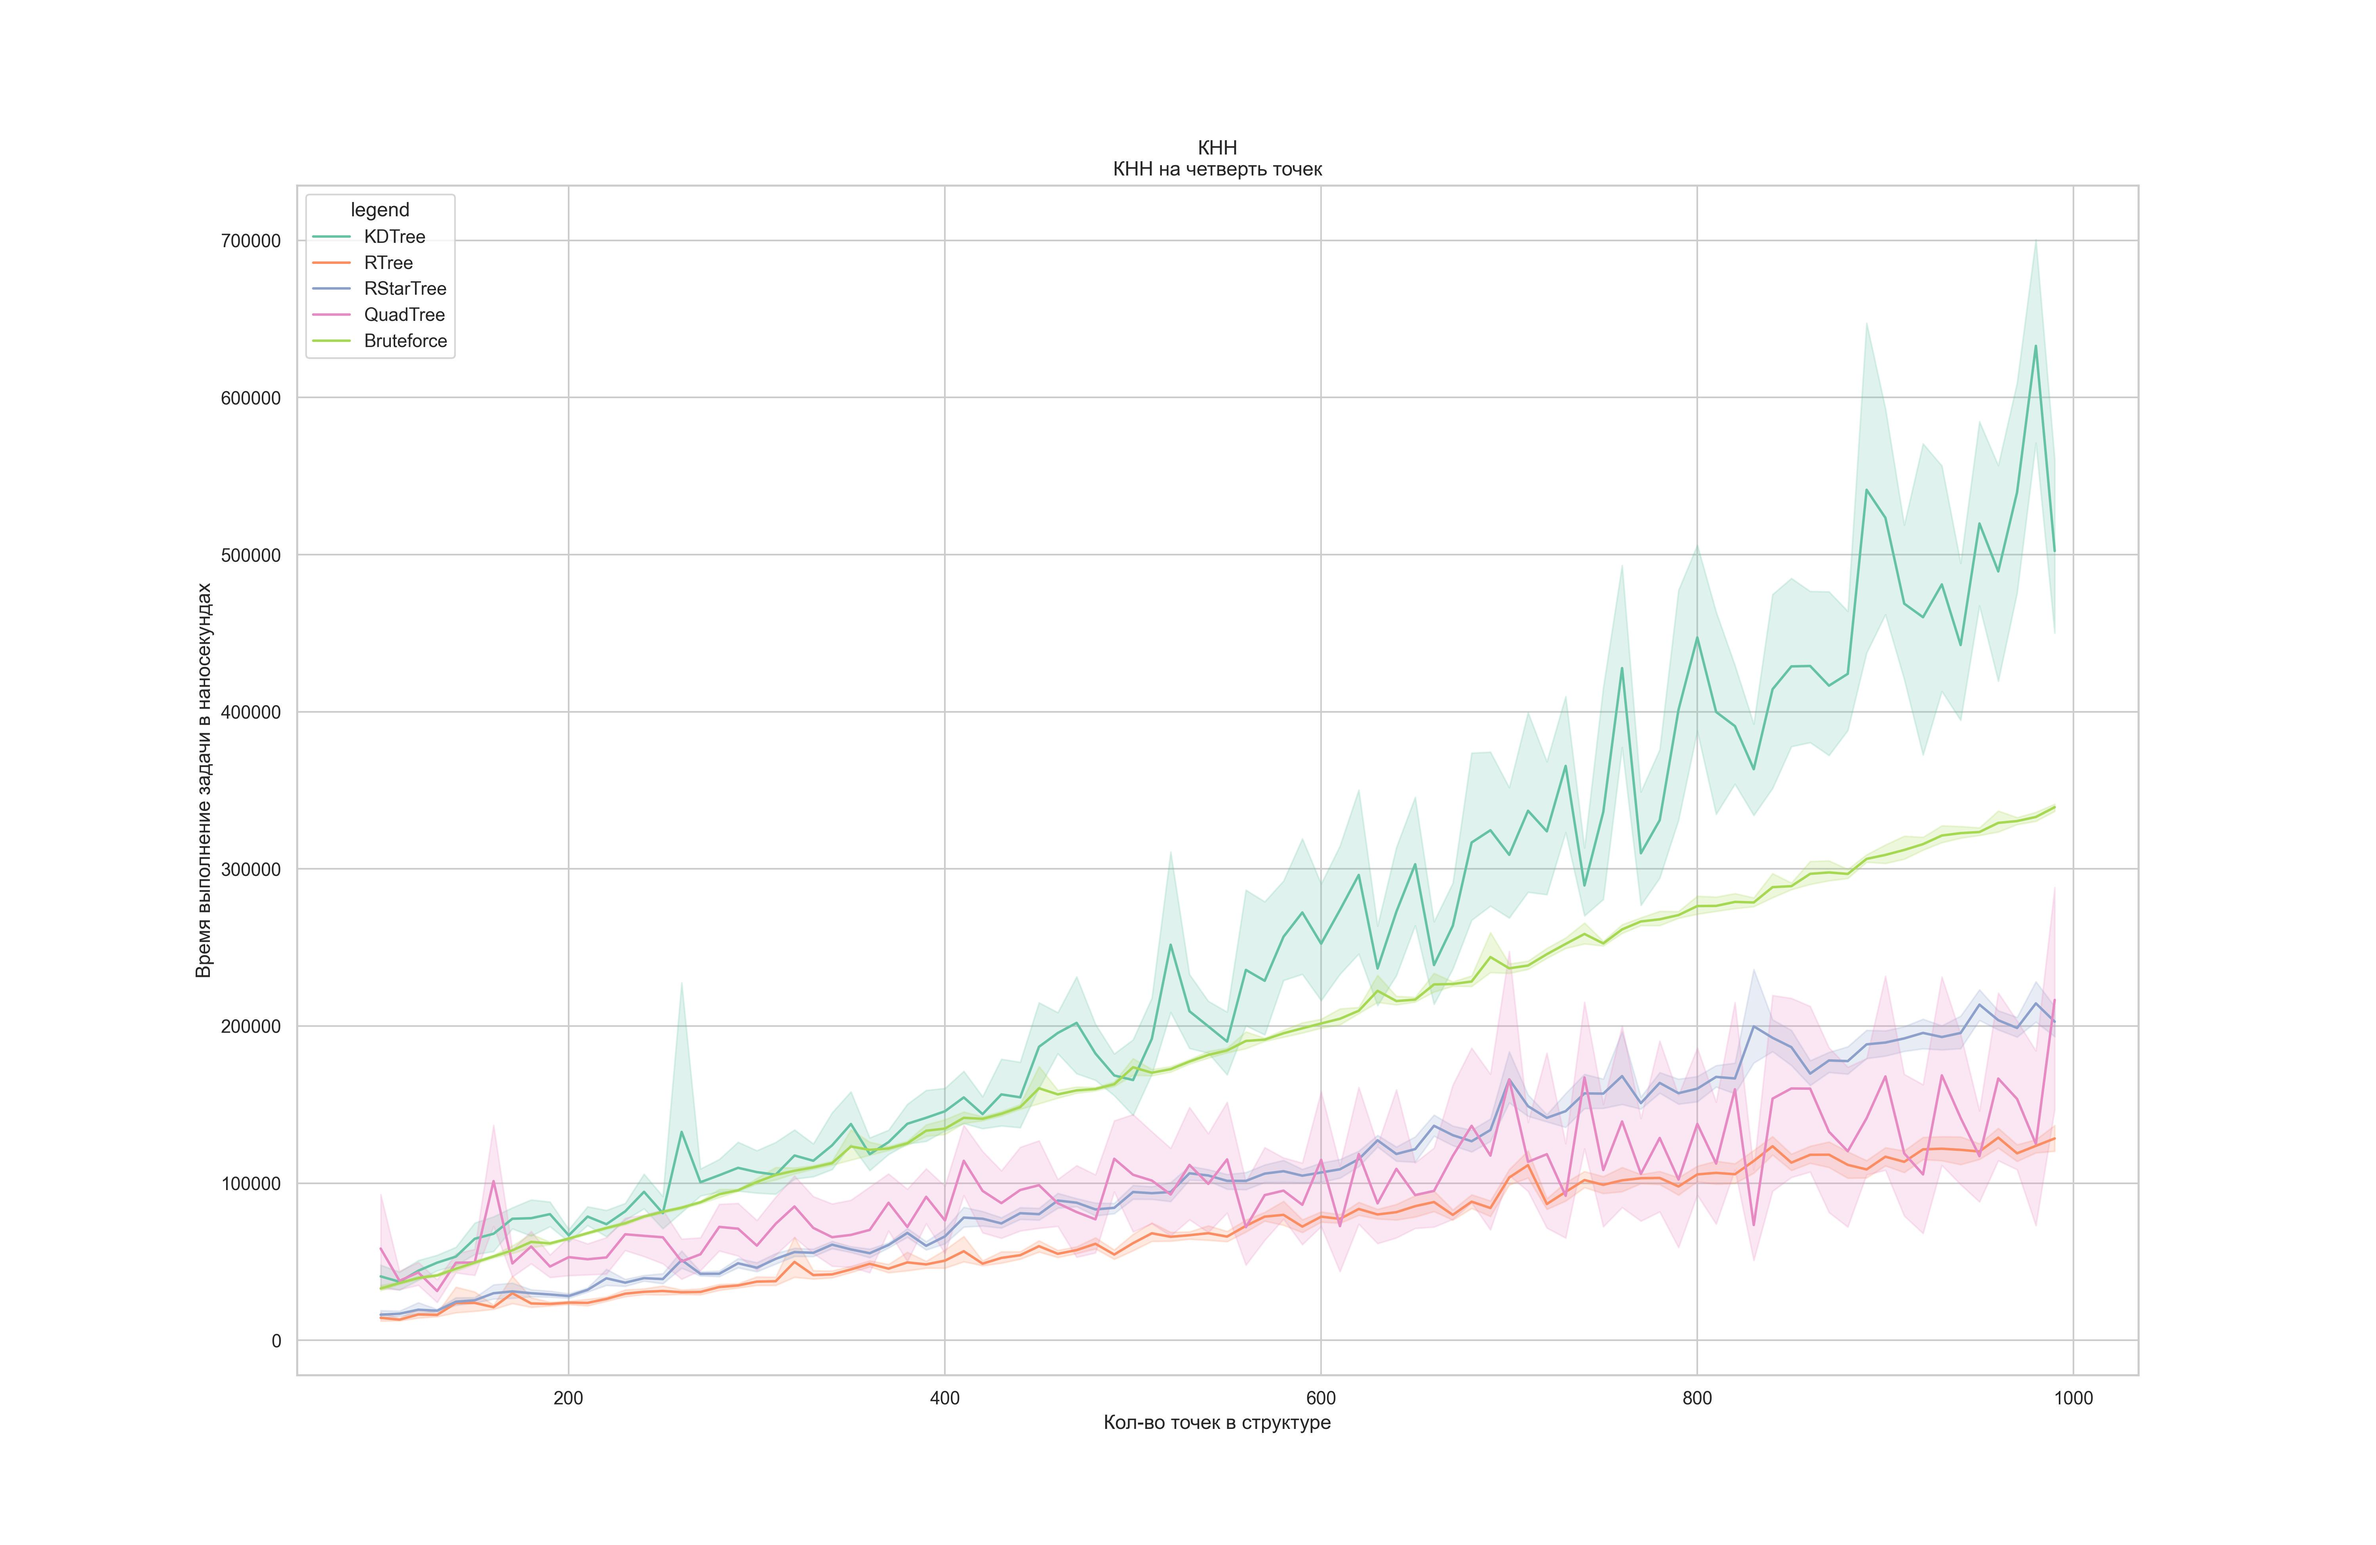
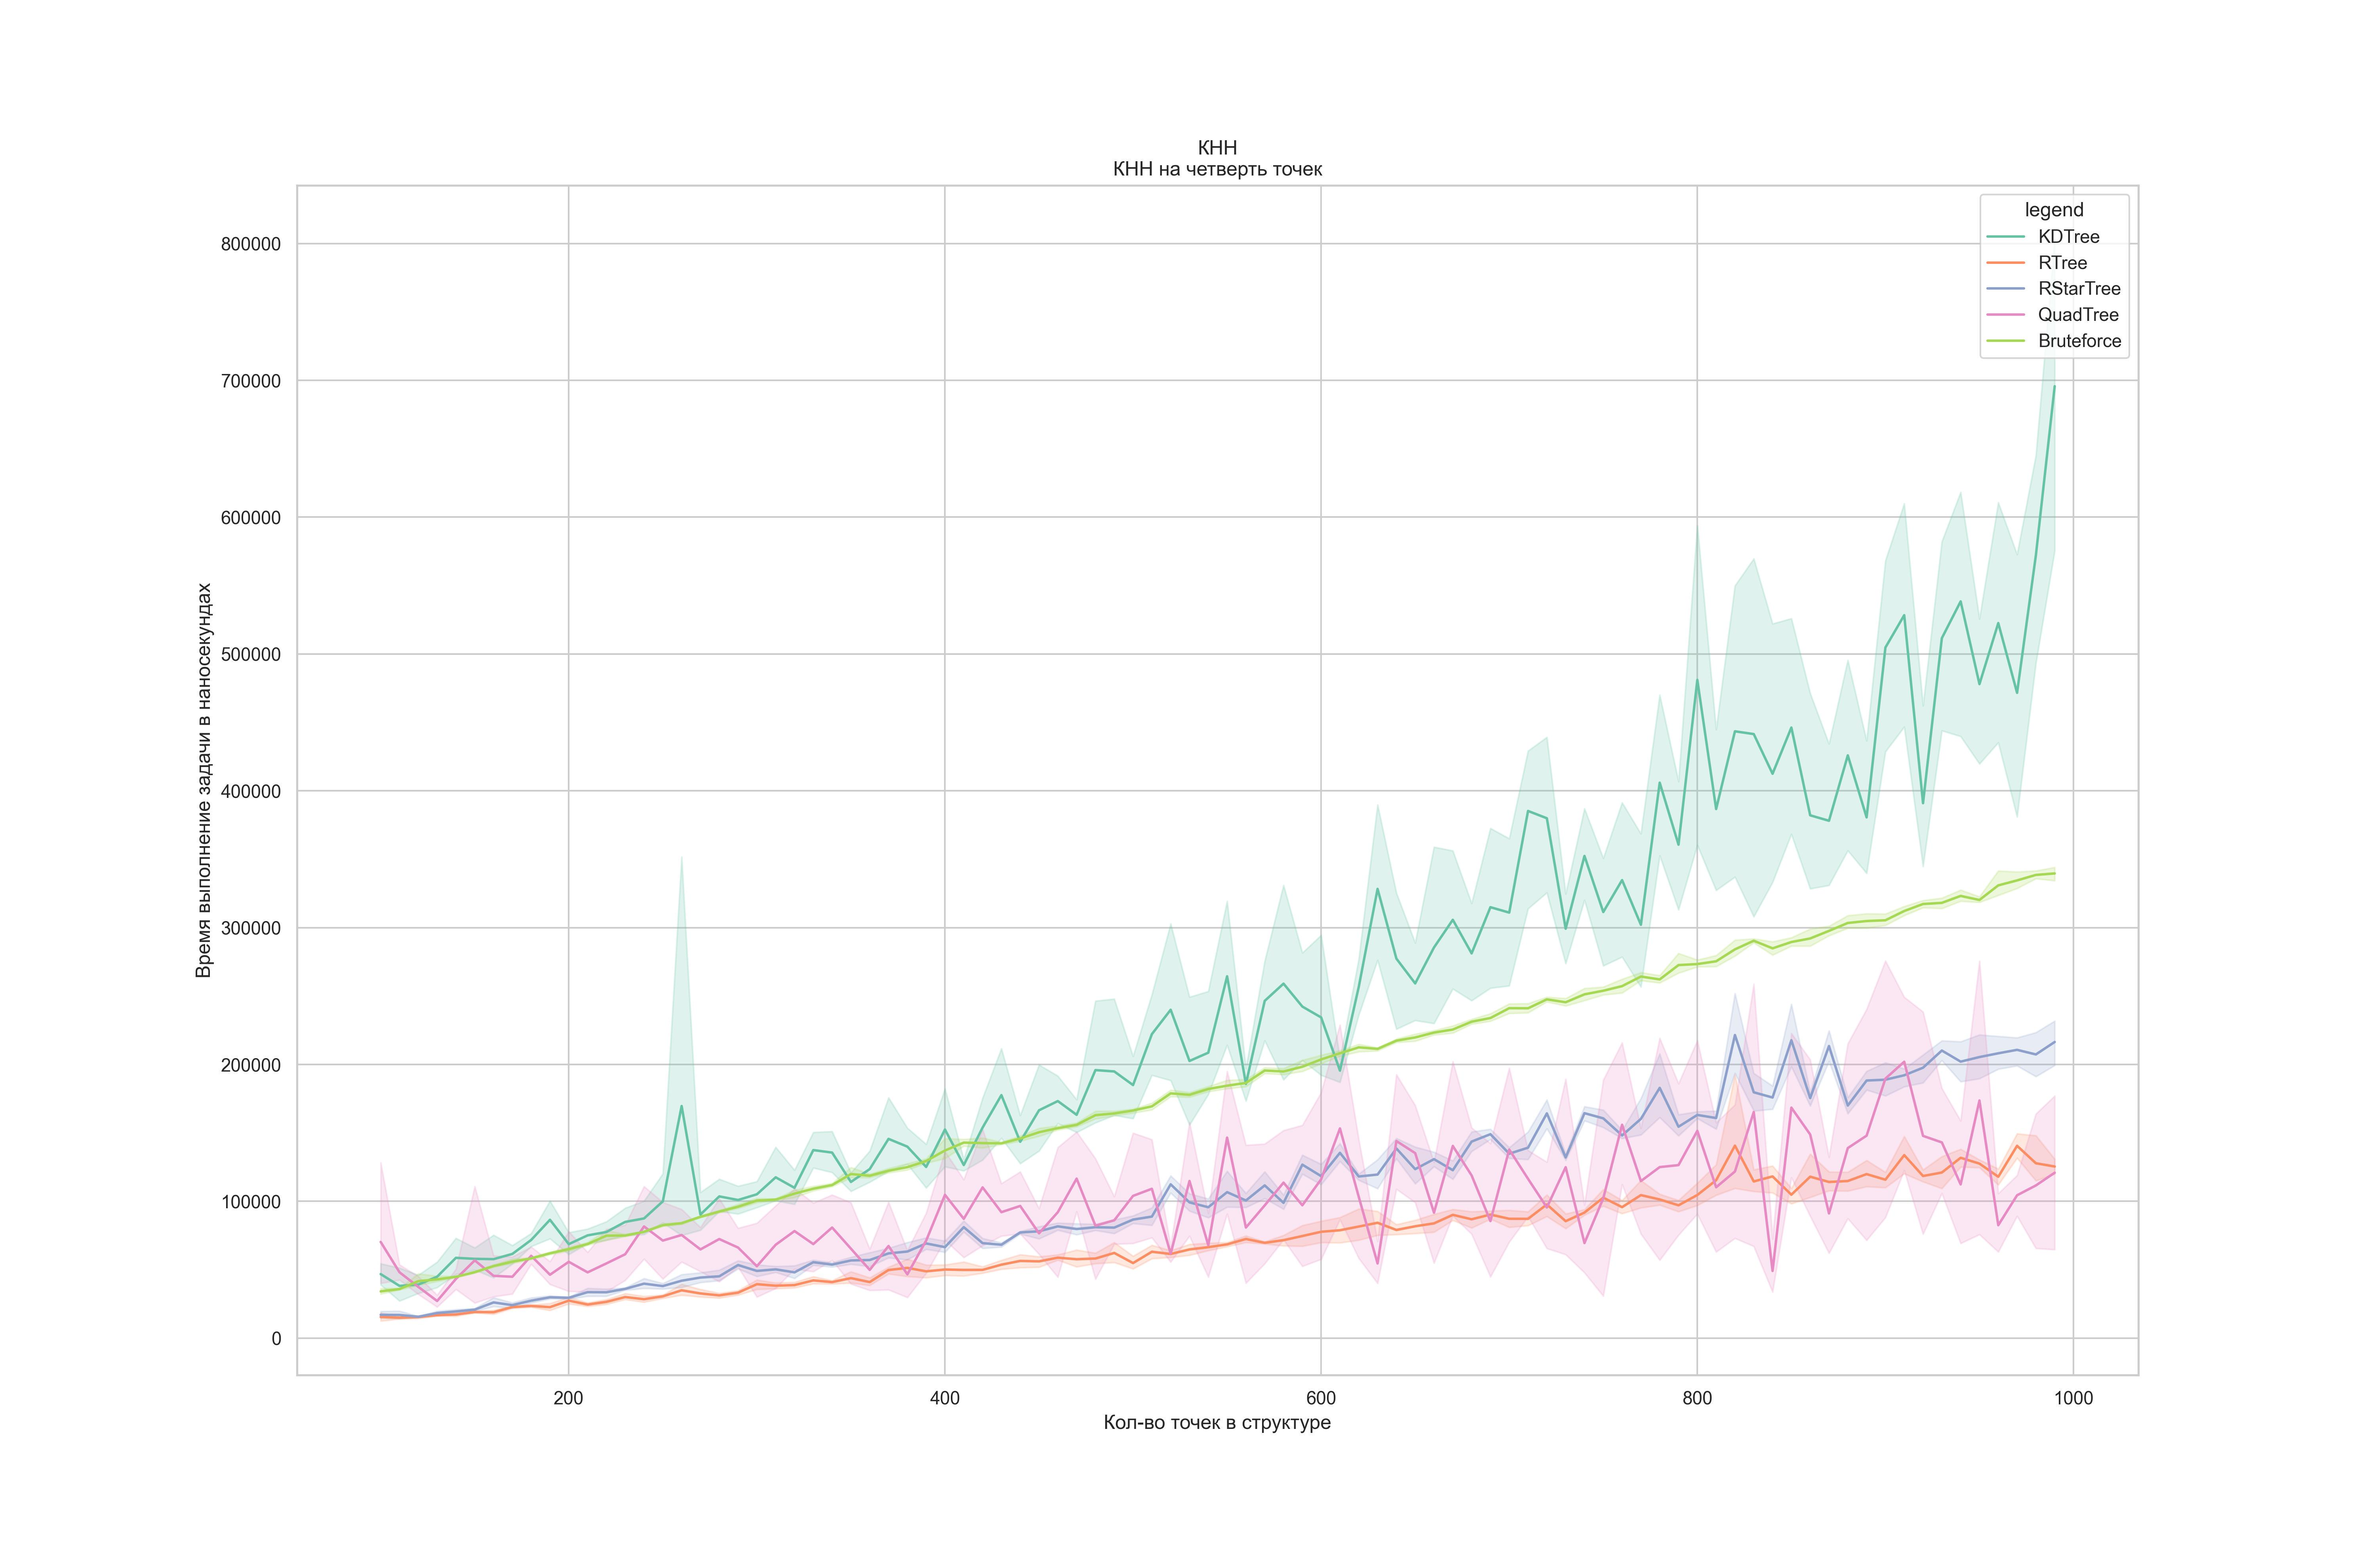
auto: autocommit

diff --git a/core/cases/run.go b/core/cases/run.go
@@ -6,7 +6,9 @@ import (
 	"geoindexing_comparison/core/cases/tasks"
 	"geoindexing_comparison/core/generator"
 	"geoindexing_comparison/core/geo"
+	"geoindexing_comparison/core/utils"
 	"github.com/rs/zerolog/log"
+	"github.com/schollz/progressbar/v3"
 	"runtime"
 	"time"
 )
@@ -24,7 +26,7 @@ func runCol(
 	amount int,
 	task tasks.Task,
 ) Result {
-	const repetitions = 10
+	const repetitions = 5
 
 	dur := make([]time.Duration, repetitions)
 	for i := 0; i < repetitions; i++ {
@@ -34,6 +36,15 @@ func runCol(
 		runtime.GC()
 		dur[i] = task.Run(col, amount)
 		runtime.GC()
+		if dur[i].Seconds() > 0.5 {
+			log.Warn().
+				Str("status", "run.too.long").
+				Dur("dur", dur[i]).
+				Str("col", col.Name()).
+				Str("task", task.Filename()).
+				Send()
+			break
+		}
 	}
 
 	return Result{
@@ -46,6 +57,8 @@ func runCol(
 
 func runTask(task tasks.Task, runCase *RunCase) []Result {
 	results := make([]Result, 0, 10)
+	iterations := (runCase.AmountEnd - runCase.AmountStart) / runCase.AmountStep
+	bar := progressbar.Default(int64(iterations))
 	for amount := runCase.AmountStart; amount < runCase.AmountEnd; amount += runCase.AmountStep {
 		points := generator.DefaultGenerator.Points(&generator.DefaultInput, amount)
 
@@ -53,11 +66,10 @@ func runTask(task tasks.Task, runCase *RunCase) []Result {
 			results = append(results, runCol(points, colInit, amount, task))
 		}
 
-		log.Info().
-			Str("status", "task.amount.done").
-			Str("task", task.Name()).
-			Int("amount", amount).
-			Send()
+		err := bar.Add(1)
+		if err != nil {
+			log.Error().Err(err).Str("status", "bar.add.error")
+		}
 	}
 
 	return results
@@ -67,12 +79,17 @@ func Run(runCase *RunCase) {
 	t0 := time.Now()
 	for _, task := range runCase.Tasks {
 		t1 := time.Now()
+		log.Info().
+			Str("status", "task.begin").
+			Str("task", task.Filename()).
+			Send()
+
 		results := runTask(task, runCase)
 
 		log.Info().
 			Str("status", "task.done").
-			Str("task", task.Name()).
-			Dur("elapsed", time.Since(t1)).
+			Str("task", task.Filename()).
+			Float64("elapsed.m", utils.ToFixed(time.Since(t1).Minutes(), 2)).
 			Send()
 
 		drawResultsForTask(task, runCase.Name, results)
@@ -80,6 +97,6 @@ func Run(runCase *RunCase) {
 
 	log.Info().
 		Str("status", "run.done").
-		Dur("elapsed", time.Since(t0)).
+		Float64("elapsed.m", utils.ToFixed(time.Since(t0).Minutes(), 2)).
 		Send()
 }

diff --git a/core/cases/run/main.go b/core/cases/run/main.go
@@ -7,23 +7,32 @@ import (
 )
 
 func main() {
-	cases.Run(&allCasesSmallAmount)
+	cases.Run(&allCasesMedium)
 }
 
 var (
 	allCases = cases.RunCase{
-		Name:        "all_cases",
+		Name:        "big",
 		Collections: addapter_all.All(),
-		Tasks:       tasks.All(),
+		Tasks:       tasks.KnnAndRadiusSearch,
 		AmountStart: 10_000,
 		AmountEnd:   100_000,
 		AmountStep:  1000,
 	}
 
+	allCasesMedium = cases.RunCase{
+		Name:        "medium",
+		Collections: addapter_all.All(),
+		Tasks:       tasks.OnlyRadiusSearch,
+		AmountStart: 10_000,
+		AmountEnd:   100_000,
+		AmountStep:  3_000,
+	}
+
 	allCasesSmallAmount = cases.RunCase{
 		Name:        "small_amount",
 		Collections: addapter_all.All(),
-		Tasks:       tasks.All(),
+		Tasks:       tasks.All,
 		AmountStart: 100,
 		AmountEnd:   1000,
 		AmountStep:  10,
@@ -32,7 +41,7 @@ var (
 	allCasesFast = cases.RunCase{
 		Name:        "fast",
 		Collections: addapter_all.All(),
-		Tasks:       tasks.All(),
+		Tasks:       tasks.All,
 		AmountStart: 100,
 		AmountEnd:   1000,
 		AmountStep:  100,

diff --git a/core/cases/tasks/interface.go b/core/cases/tasks/interface.go
@@ -12,12 +12,25 @@ type Task interface {
 	Run(col addapter.Collection, amount int) time.Duration
 }
 
-func All() []Task {
-	return []Task{
-		&KNNQuater{},
-		&KNN90{},
-		&RadiusSearch{},
-		&Insert{},
-		&KNN1{},
-	}
+var All = []Task{
+	&KNNQuater{},
+	&KNN90{},
+	&RadiusSearch{},
+	&Insert{},
+	&KNN1{},
+}
+
+var AllOnePerType = []Task{
+	&RadiusSearch{},
+	&Insert{},
+	&KNN1{},
+}
+
+var KnnAndRadiusSearch = []Task{
+	&RadiusSearch{},
+	&KNN1{},
+}
+
+var OnlyRadiusSearch = []Task{
+	&RadiusSearch{},
 }

diff --git a/core/addapter/rtree/addapter_test.go b/core/addapter/rtree/addapter_test.go
@@ -36,3 +36,15 @@ func TestUnit_RTree_FindRange_Ok(t *testing.T) {
 		PaintPartially(geo.Green, result).
 		PaintPartially(geo.Red, []geo.Point{origin})
 }
+
+func TestUnit_RTree_RangeSearch_Ok(t *testing.T) {
+	collection := New()
+	collection.FromArray(points)
+
+	origin := points.GetRandomPoint()
+	result, _ := collection.RangeSearchTimed(
+		origin,
+		(generator.DefaultInput.LatUpperBound-generator.DefaultInput.LatLowerBound)/6,
+	)
+	println(len(result), len(points))
+}

diff --git a/core/addapter/bruteforce/addapter_test.go b/core/addapter/bruteforce/addapter_test.go
@@ -17,3 +17,14 @@ func TestUnit_PointGenerator_GeneratePoint_Ok(t *testing.T) {
 	items, _ := collection.KNNTimed(origin, 900)
 	assert.Equal(t, 900, len(items))
 }
+
+func TestUnit_PointGenerator_RadiusSearch_Ok(t *testing.T) {
+	collection := New()
+	collection.FromArray(points)
+
+	origin := points.GetRandomPoint()
+	collection.RangeSearchTimed(
+		origin,
+		(generator.DefaultInput.LatUpperBound-generator.DefaultInput.LatLowerBound)/6,
+	)
+}

diff --git a/core/addapter/rtree/addapter.go b/core/addapter/rtree/addapter.go
@@ -41,7 +41,7 @@ func (r *CollectionRTree) RangeSearchTimed(
 	point geo.Point,
 	radius float64,
 ) (geo.Points, time.Duration) {
-	rect, _ := rtreego.NewRect([]float64{point.Lat, point.Lon}, []float64{radius, radius})
+	rect, _ := rtreego.NewRect([]float64{point.Lat, point.Lon}, []float64{2 * radius, 2 * radius})
 	t0 := time.Now()
 	points := r.impl.SearchIntersect(rect)
 	dur := time.Now().Sub(t0)

diff --git a/core/addapter/rstartree/addapter.go b/core/addapter/rstartree/addapter.go
@@ -41,7 +41,7 @@ func (r *CollectionRTree) RangeSearchTimed(
 	point geo.Point,
 	radius float64,
 ) (geo.Points, time.Duration) {
-	rect, _ := rtreego.NewRect([]float64{point.Lat, point.Lon}, []float64{radius, radius})
+	rect, _ := rtreego.NewRect([]float64{point.Lat, point.Lon}, []float64{2 * radius, 2 * radius})
 	t0 := time.Now()
 	points := r.impl.SearchIntersect(rect)
 	dur := time.Since(t0)

diff --git a/core/cases/tasks/radius.go b/core/cases/tasks/radius.go
@@ -24,7 +24,10 @@ func (r *RadiusSearch) Run(col addapter.Collection, amount int) time.Duration {
 	point := generator.DefaultGenerator.Point(&generator.DefaultInput)
 
 	runtime.GC()
-	_, t := col.RangeSearchTimed(point, 1000)
+	_, t := col.RangeSearchTimed(
+		point,
+		(generator.DefaultInput.LatUpperBound-generator.DefaultInput.LatLowerBound)/6,
+	)
 	runtime.GC()
 
 	return t

diff --git a/core/addapter/quadtree/addapter.go b/core/addapter/quadtree/addapter.go
@@ -58,10 +58,10 @@ func (r *CollectionQuadTree) RangeSearchTimed(
 
 	res := r.impl.QueryRange(
 		qtree.NewBounds[uuid.UUID](
-			point.Lat-radius/2,
-			point.Lon-radius/2,
-			point.Lat+radius/2,
-			point.Lon+radius/2,
+			point.Lat-radius,
+			point.Lon-radius,
+			point.Lat+radius,
+			point.Lon+radius,
 		),
 	)
 	dur := time.Since(t0)

diff --git a/core/generator/utils.go b/core/generator/utils.go
@@ -1,7 +1,10 @@
 package generator
 
-import "math/rand"
+import (
+	"geoindexing_comparison/core/utils"
+	"math/rand"
+)
 
 func randFloat(min, max float64) float64 {
-	return min + rand.Float64()*(max-min)
+	return utils.ToFixed(min+rand.Float64()*(max-min), 6)
 }
